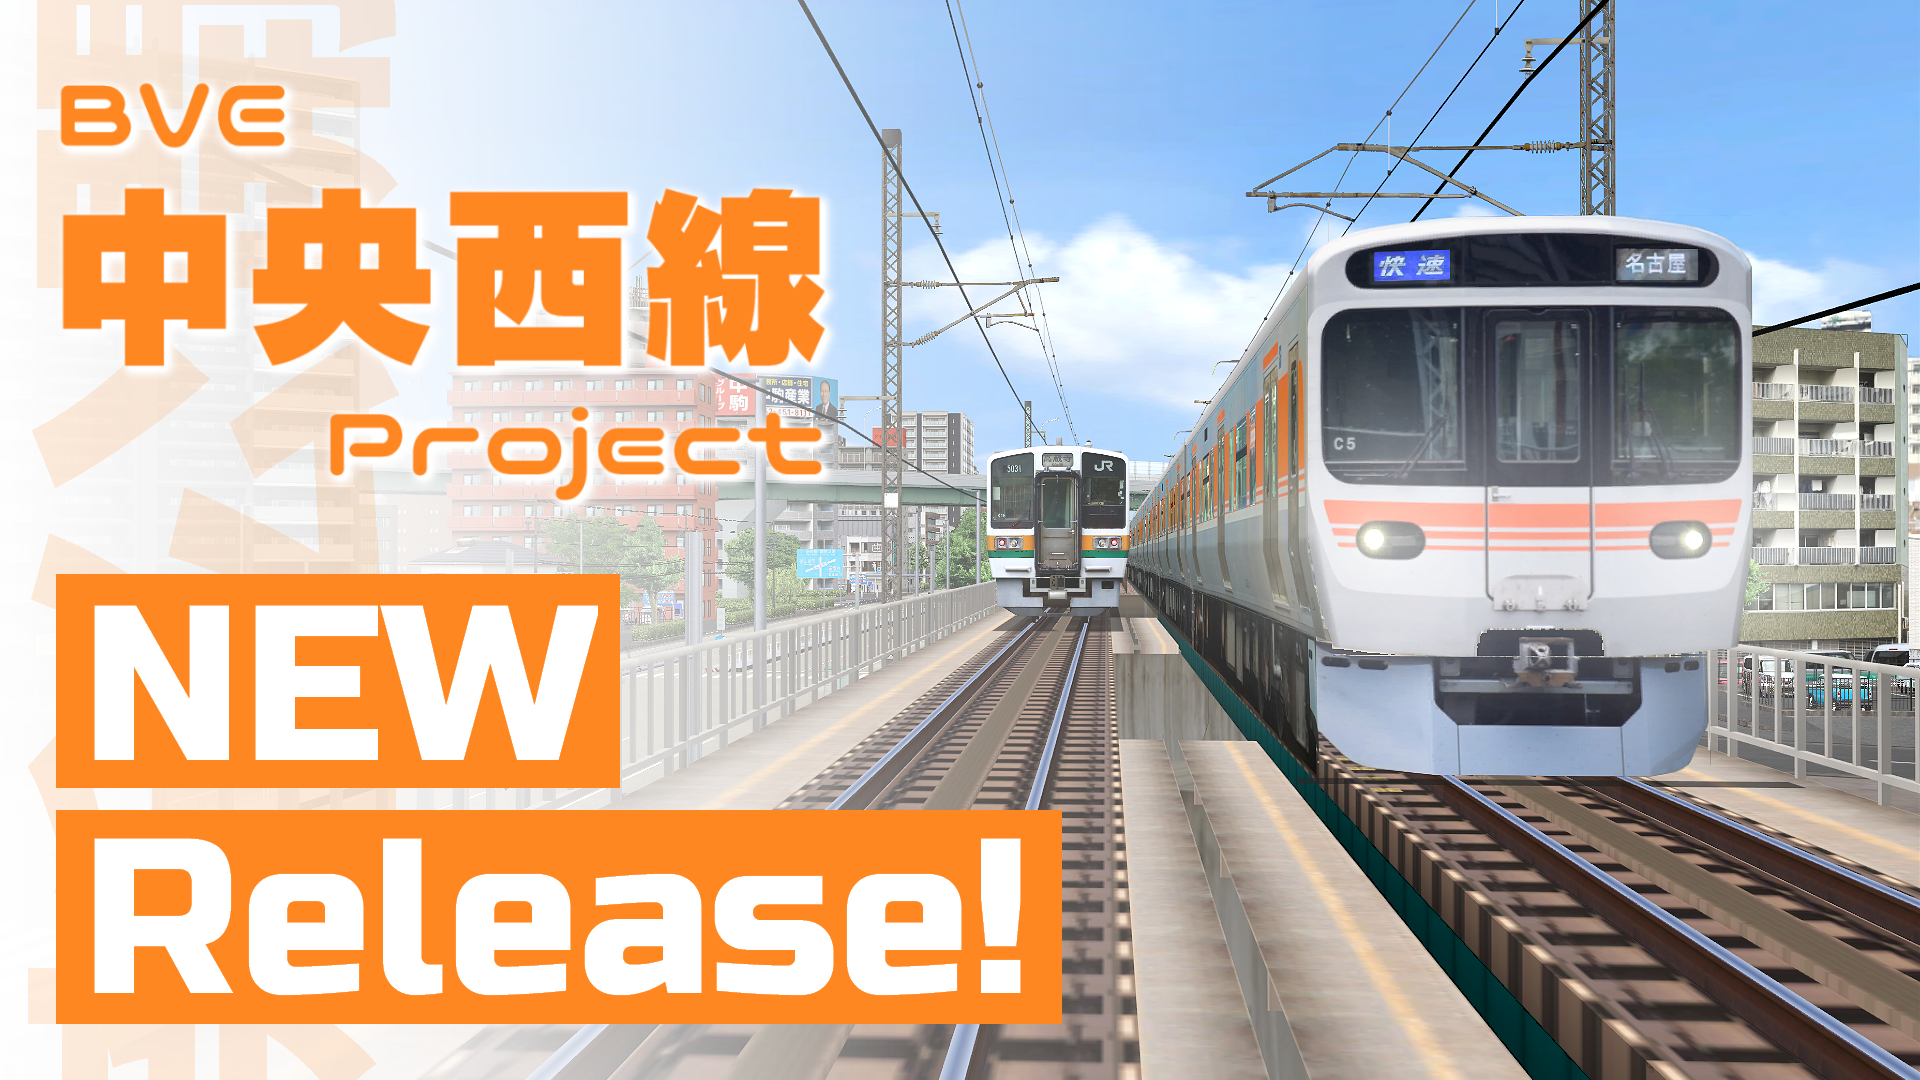
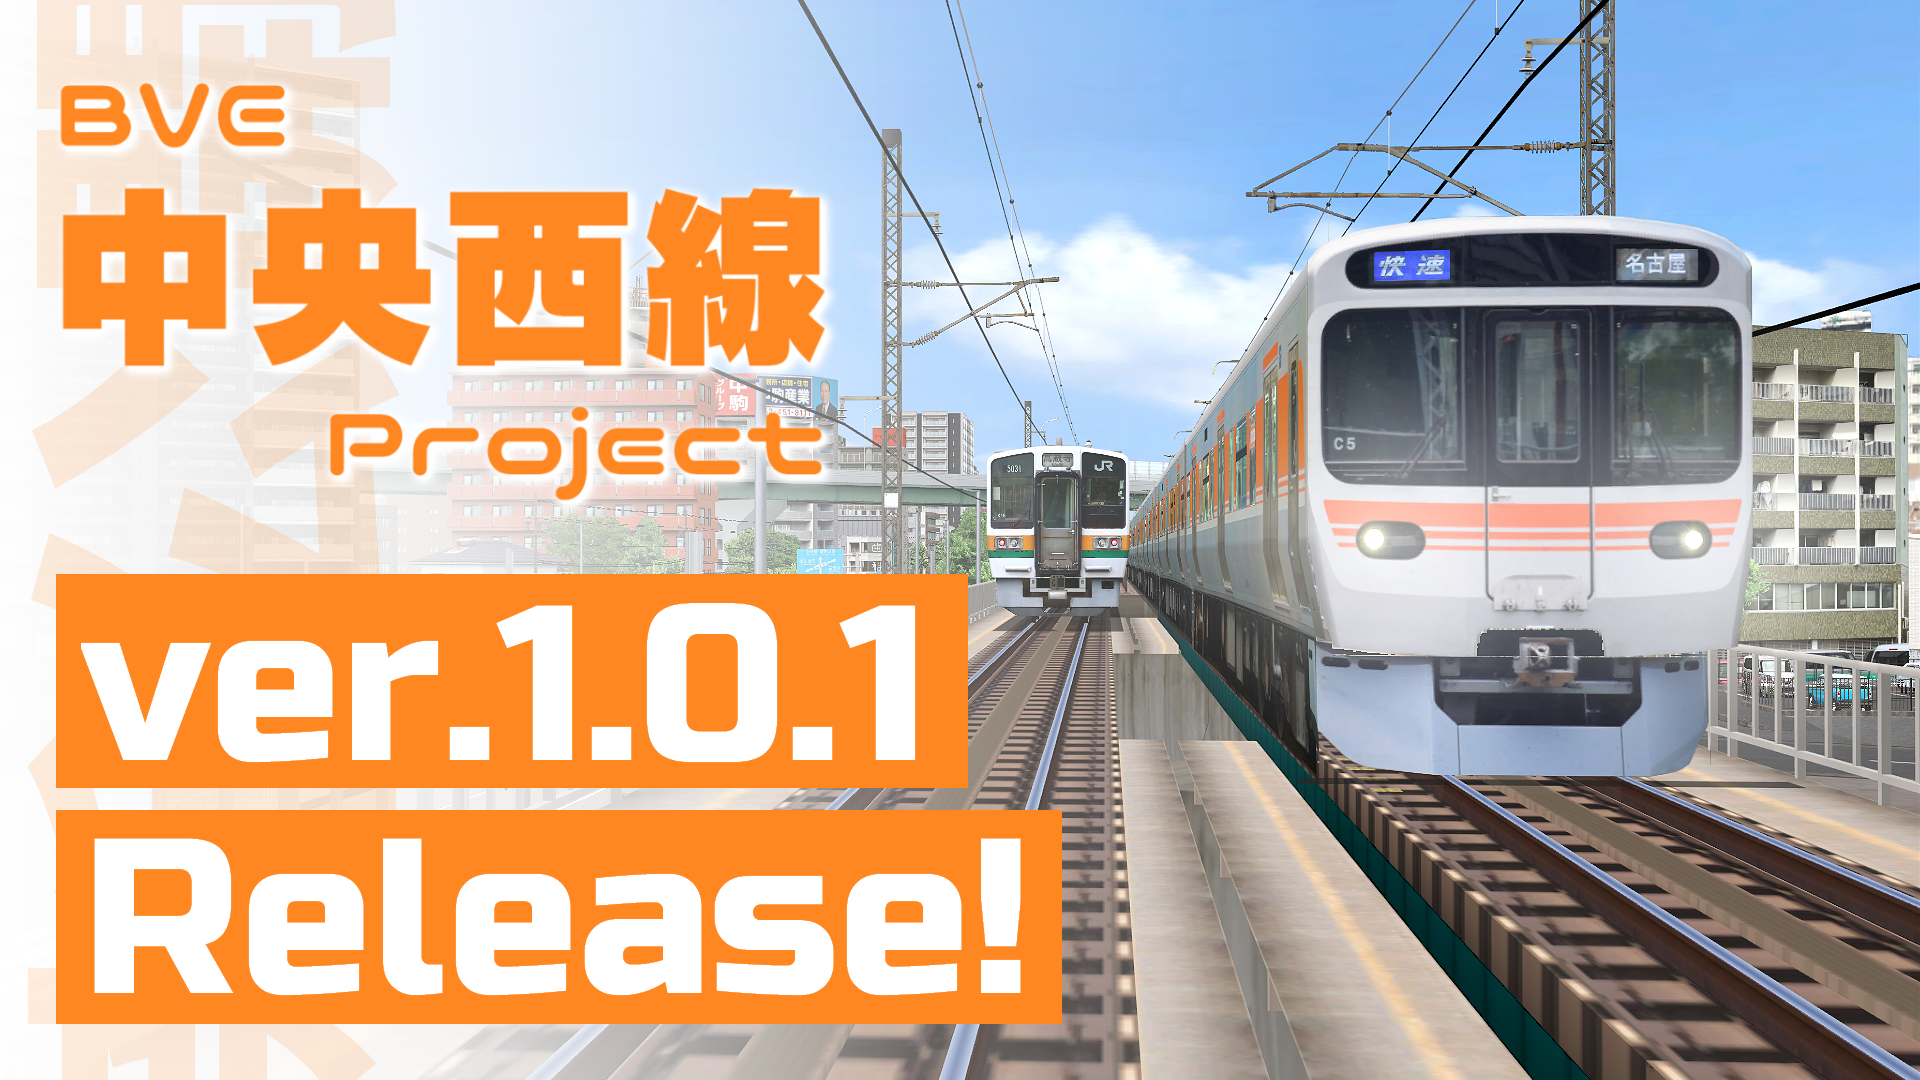
add ver.1.0.1

Changed region(s): [[0.0312, 0.5194, 0.5312, 0.7333]]

diff --git a/PJ-ToU.html b/PJ-ToU.html
@@ -143,7 +143,33 @@ height="0" width="0" style="display:none;visibility:hidden"></iframe></noscript>
         </p>
 
     <h3>
-            第5条（動画・スクリーンショットの投稿）
+            第5条（技術的解析・データ抽出の禁止）
+    </h3>
+        <p>
+            １．利用者は、インストーラー及び本データに含まれるプラグイン、その他技術的保護が施された要素について、以下の行為を行ってはなりません。
+            <br>
+            (1) 逆コンパイル、逆アセンブル、リバースエンジニアリング、およびこれらに類する解析行為。これには以下の各項目を含みます。
+            <br>
+            　イ インストーラーの正規の実行手順を介さない、内蔵データ（テキスト・画像・音声・構造データ・スクリプト等）の展開、抽出、分離、または複製行為
+            <br>
+            　ロ ソースコード、アルゴリズム、または内部構造・仕様・非公開データの抽出、推測、および再現
+            <br>
+            　ハ 暗号化、難読化、認証機構、利用制限等の技術的保護手段の回避、無効化、または解除
+            <br>
+            (2) 上記行為を第三者に依頼、補助、または助長する行為
+            <br>
+            ２．前項の禁止行為は、著作権法に基づき認められる私的使用の範囲内（個人が家庭内その他これに準ずる限られた範囲内において、外部への一切の公開・共有を行わず、自己の利用に供することを目的とする場合）を除き、すべて禁止されるものとします。
+            <br>
+            ３．当プロジェクトによる明示的な許可を得た場合を除き、本条に定める行為を行うことはできません。
+            <br>
+            ４．本条に違反した場合、当プロジェクトは、利用者に対し、本データの利用停止、および取得したデータの破棄・削除要請、その他必要と判断する措置を講じることができるものとします。
+            <br>
+            <br>
+        </p>
+
+
+    <h3>
+            第6条（動画・スクリーンショットの投稿）
     </h3>
         <p>
             １．利用者は、以下の条件をすべて満たす場合に限り、当プロジェクトへの連絡なく動画・スクリーンショットを投稿・配信できます。
@@ -154,8 +180,8 @@ height="0" width="0" style="display:none;visibility:hidden"></iframe></noscript>
             <br>
             (3) 当サイトで公開されたデータであること及びトップページURL(https://kuusemi.net)を説明欄等に明記すること
             <br>
-            (4) 動画・配信サービスにおいて、利用者は広告収入を目的とする収益化設定を能動的に有効化してはなりません（例：アドセンス、メンバーシップ、スーパーチャットその他営利目的の機能を含む）
-            ただし、YouTube・ニコニコ動画等のサービス側により自動的かつ強制的に広告が表示される場合はこの限りではありません。
+            (4) 動画・配信サービスにおいて、利用者は広告収入を目的とする収益化設定を能動的に有効化すること（例：アドセンス、メンバーシップ、スーパーチャットその他営利目的の機能を含む）
+             ただし、YouTube・ニコニコ動画等のサービス側により自動的かつ強制的に広告が表示される場合はこの限りではありません。
             この場合、動画説明欄等に「本動画は自動広告が表示される場合がありますが、投稿者による収益化設定は行っておりません」等の旨を明記してください。
             <br>
             (5) 車両データ作者など、他制作者が定める規約にも従うこと
@@ -166,7 +192,7 @@ height="0" width="0" style="display:none;visibility:hidden"></iframe></noscript>
         </p>
 
     <h3>
-            第6条（二次創作・派生作品）
+            第7条（二次創作・派生作品）
     </h3>
         <p>
             １．本データを基にした改変・再構築・派生制作などの二次創作は、原則として禁止します。
@@ -180,7 +206,7 @@ height="0" width="0" style="display:none;visibility:hidden"></iframe></noscript>
 
 
     <h3>
-            第7条（公共利用・展示等）
+            第8条（公共利用・展示等）
     </h3>
         <p>
             １．BVE等のオフ会、展示会、学校文化祭など、不特定多数の目に触れる場所で本データを使用する場合、必ず事前に当プロジェクトへご連絡ください。
@@ -192,7 +218,7 @@ height="0" width="0" style="display:none;visibility:hidden"></iframe></noscript>
 
 
     <h3>
-            第8条（免責事項）
+            第9条（免責事項）
     </h3>
         <p>
             １．当プロジェクトは、本データの正確性、動作の安定性、完全性を保証しません。
@@ -206,7 +232,7 @@ height="0" width="0" style="display:none;visibility:hidden"></iframe></noscript>
 
 
     <h3>
-            第9条（利用停止および配布停止）
+            第10条（利用停止および配布停止）
     </h3>
         <p>
             １．当プロジェクトは、予告なく本データの公開・配布を停止または中止することができます。
@@ -216,7 +242,7 @@ height="0" width="0" style="display:none;visibility:hidden"></iframe></noscript>
             <br>
         </p>
     <h3>
-            第10条（改訂）
+            第11条（改訂）
     </h3>
         <p>
             １．当プロジェクトは、本規約の内容を随時変更できるものとします。
@@ -226,7 +252,7 @@ height="0" width="0" style="display:none;visibility:hidden"></iframe></noscript>
             <br>
         </p>
     <h3>
-            第11条（準拠法および管轄）
+            第12条（準拠法および管轄）
     </h3>
         <p>
             １．本規約の解釈および適用は、日本法に準拠します。
@@ -246,6 +272,8 @@ height="0" width="0" style="display:none;visibility:hidden"></iframe></noscript>
     <p>
         <br>
         制定日:2025年12月20日
+        <br>
+        改定日:2026年1月6日
         <br>
         <br>
         くーせみ / kuusemi

diff --git a/project-chuo.html b/project-chuo.html
@@ -876,16 +876,6 @@ height="0" width="0" style="display:none;visibility:hidden"></iframe></noscript>
 			</p>
     </div>
 
-    <div class="download-container">
-        <h2 class="download-title">お願い / Notice</h2>
-        <p class="download-description-top">日本国外からデータをインストールされる方は、
-            インストール時に必ずシステムロケールを「日本語」に設定してください。
-            <br>
-			If you are installing this data from outside Japan, 
-            please make sure to set your system locale to Japanese before starting the installation.
-			</p>
-    </div>
-
 
     <div class="download-button-wrapper">
         <a href="javascript:void(0)" id="open-popup-trigger" class="download-button">
@@ -1695,7 +1685,7 @@ document.addEventListener("DOMContentLoaded", function() {
     stationItems.forEach(item => observer.observe(item));
 });
 
-const DOWNLOAD_URL = "https://github.com/kuusemi-315/Project-Chuo-Installer/releases/download/ver.1.0.0/ProjectChuo.Setup_v1.0.0.exe";
+const DOWNLOAD_URL = "https://github.com/kuusemi-315/Project-Chuo-Installer/releases/download/ver.1.0.1/ProjectChuo.Setup_v1.0.1.exe";
 
 const NEXT_PAGE_URL = "PJ-support.html";
 

diff --git a/news-content.html b/news-content.html
@@ -11,7 +11,8 @@
 <body>
 
 <ul class="news-list">
-    <li class="news-item"><span class="news-date">2025.12.20</span><span class="news-text">BVE 中央西線シナリオ ver.1.0.0 公開</span></li>
+  <li class="news-item"><span class="news-date">2026.01.07</span><span class="news-text">BVE 中央西線シナリオ ver.1.0.1 公開</span></li>
+  <li class="news-item"><span class="news-date">2025.12.20</span><span class="news-text">BVE 中央西線シナリオ ver.1.0.0 公開</span></li>
   <li class="news-item"><span class="news-date">2025.12.20</span><span class="news-text">383系・313系・名鉄4000系 ストラクチャーデータ 公開</span></li>
   <li class="news-item"><span class="news-date">2025.12.20</span><span class="news-text">プライバシーポリシーを改定</span></li>
   <li class="news-item"><span class="news-date">2025.12.20</span><span class="news-text">ホームページを移転</span></li>

diff --git a/data.html b/data.html
@@ -229,8 +229,6 @@ height="0" width="0" style="display:none;visibility:hidden"></iframe></noscript>
       <h4>&nbsp&nbspビニールハウス</h4>
       <p>田園地帯でよく見かける、ビニールハウスのストラクチャーです。
         <br>
-        現実と同じように、BVEでも空いた土地をとりあえず駐車場にしてみませんか？
-        <br>
         丸型、角型(+屋根付き)の3種類を用意しています。
       </p>
     </header>

diff --git a/PJ-support.html b/PJ-support.html
@@ -578,6 +578,7 @@ height="0" width="0" style="display:none;visibility:hidden"></iframe></noscript>
 				      </span>
           </div>
 
+
           <img class="speedlimit" src="images/maintenance.png" alt="速度制限標識">
 
     </div>
